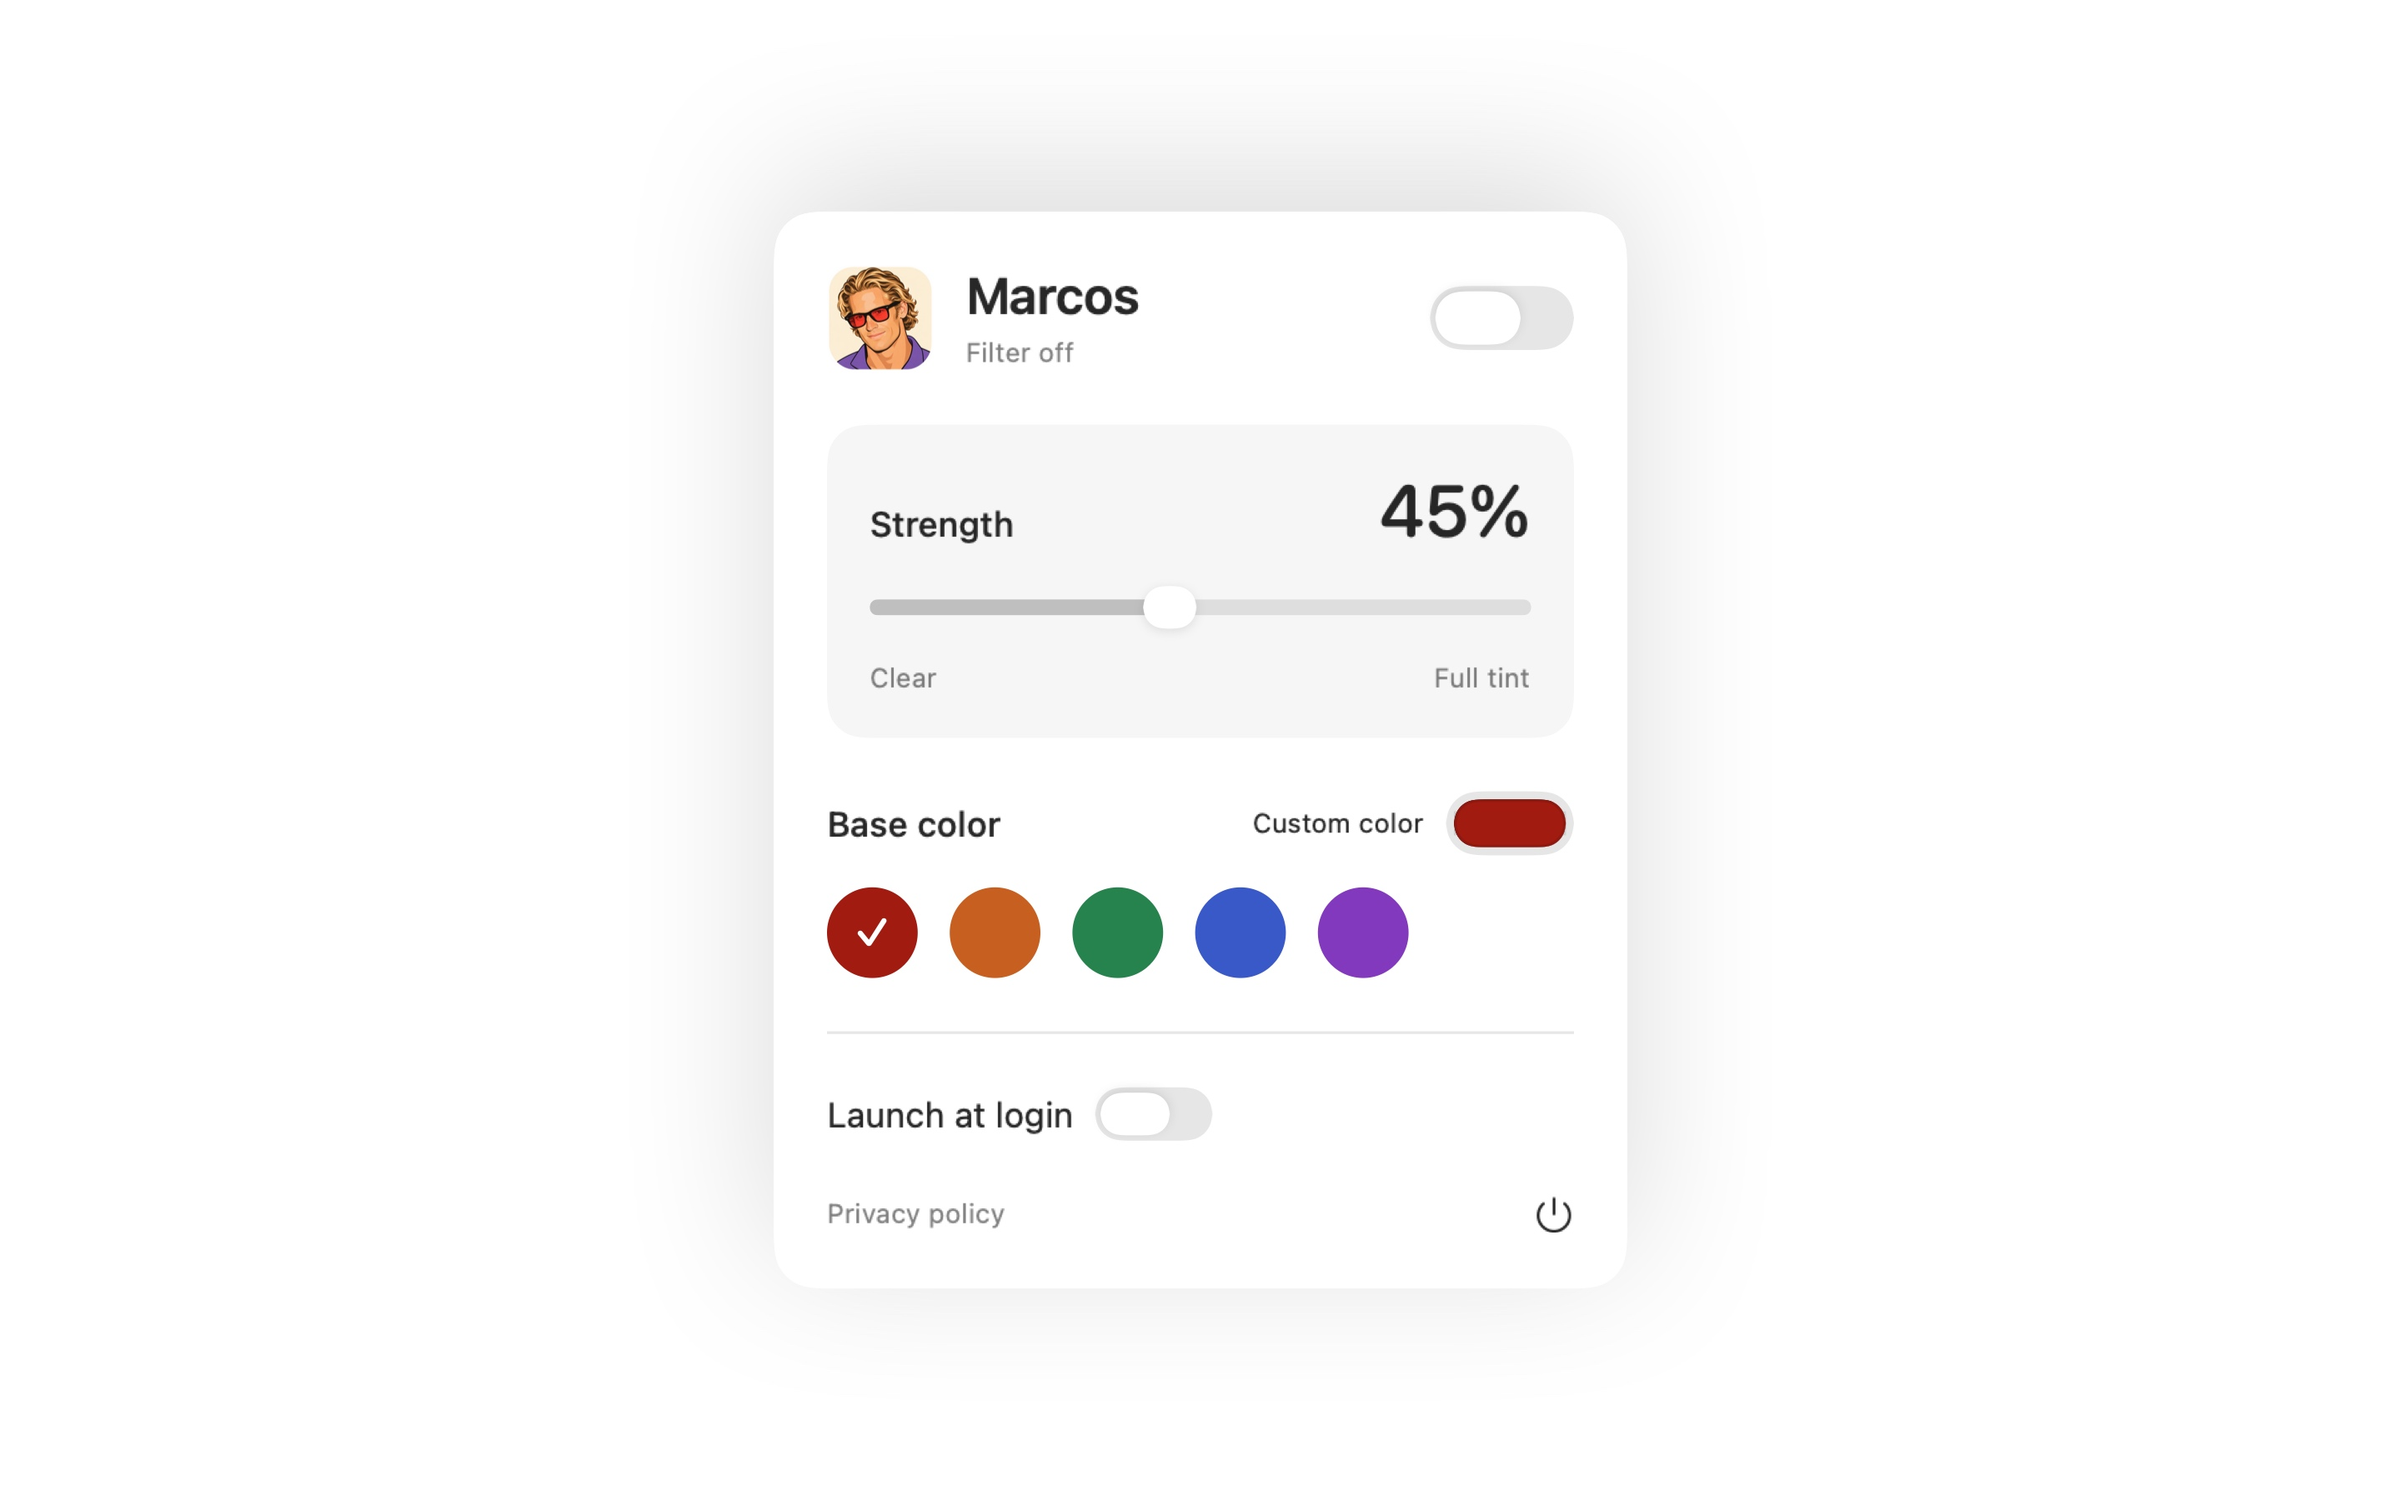
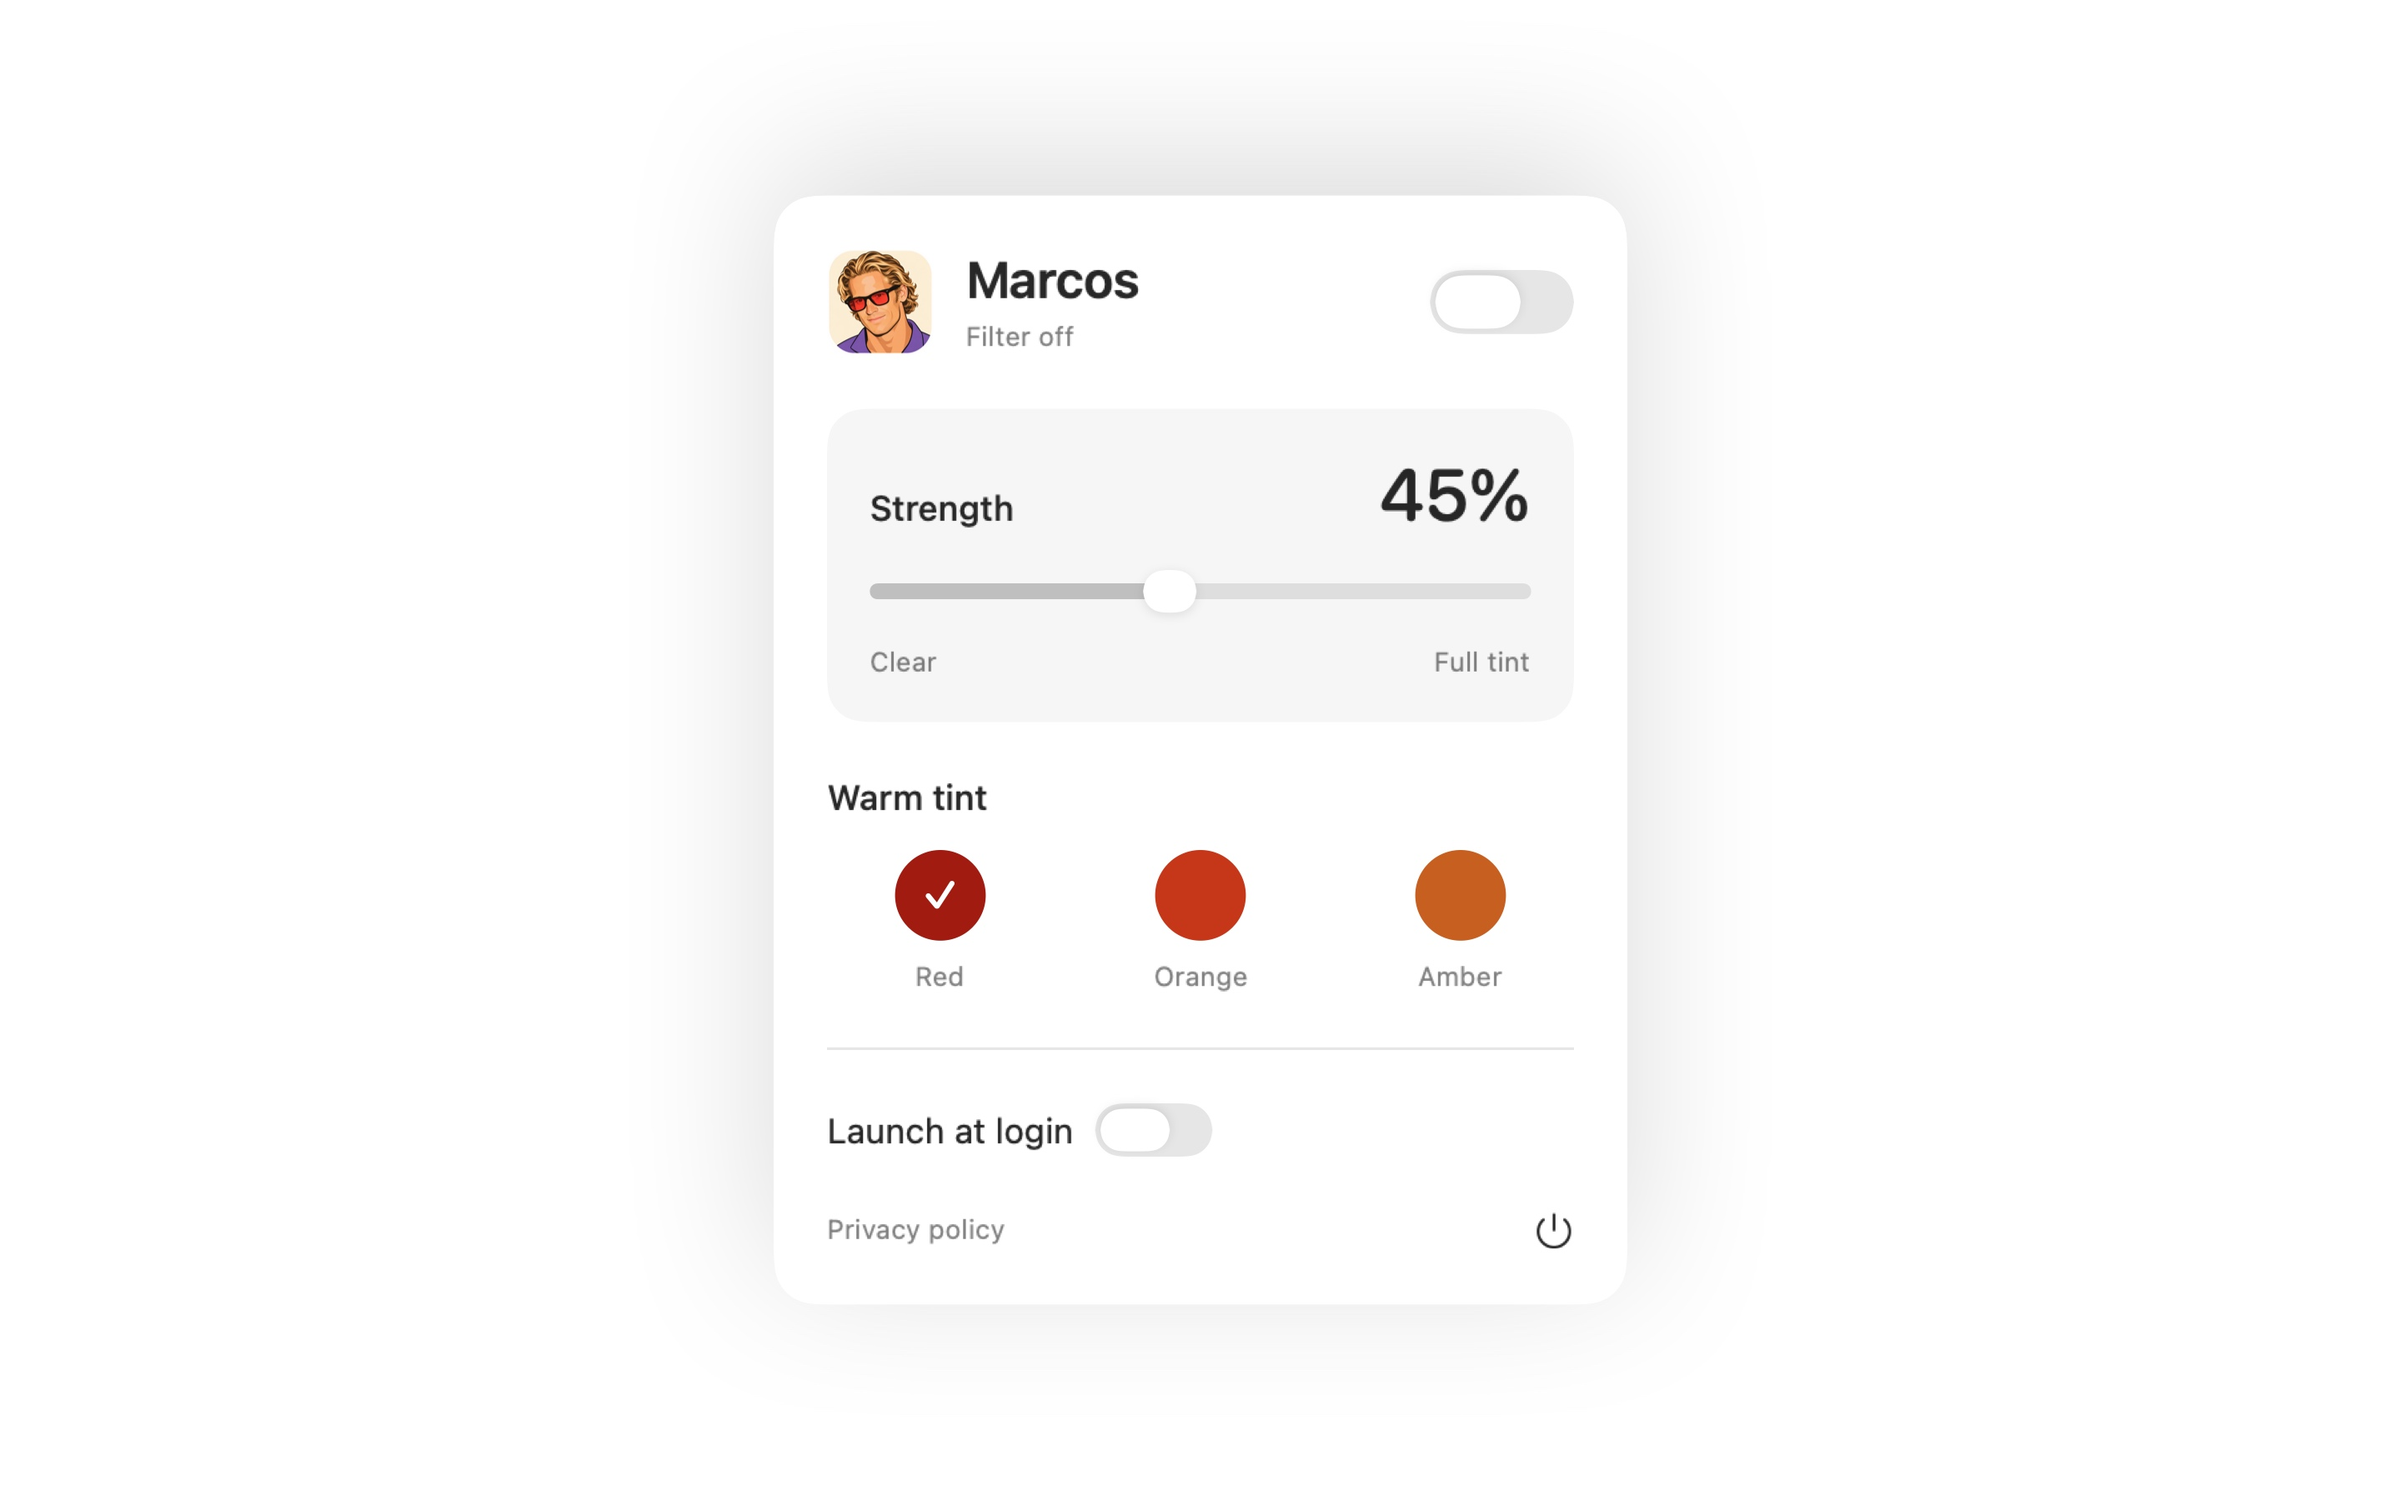
Restrict the picker to red, orange, and amber tints

diff --git a/StatusMenu.swift b/StatusMenu.swift
@@ -76,14 +76,6 @@ final class StatusMenu: NSObject {
 struct FilterControls: View {
     @ObservedObject var filter: FilterController
 
-    private let colors: [(name: String, color: NSColor)] = [
-        ("Red", .init(srgbRed: 0.65, green: 0, blue: 0, alpha: 1)),
-        ("Amber", .init(srgbRed: 0.8, green: 0.35, blue: 0.04, alpha: 1)),
-        ("Green", .init(srgbRed: 0.12, green: 0.52, blue: 0.3, alpha: 1)),
-        ("Blue", .init(srgbRed: 0.12, green: 0.36, blue: 0.8, alpha: 1)),
-        ("Violet", .init(srgbRed: 0.5, green: 0.22, blue: 0.75, alpha: 1)),
-    ]
-
     private var tint: Color { Color(nsColor: filter.baseColor) }
 
     var body: some View {
@@ -141,33 +133,31 @@ struct FilterControls: View {
             .background(.primary.opacity(0.04), in: RoundedRectangle(cornerRadius: 14))
 
             VStack(alignment: .leading, spacing: 12) {
-                HStack {
-                    Text("Base color")
-                        .font(.system(size: 13, weight: .medium))
-                    Spacer()
-                    ColorPicker("Custom color", selection: Binding(
-                        get: { tint },
-                        set: { filter.baseColor = NSColor($0) }
-                    ), supportsOpacity: false)
-                    .font(.caption)
-                }
+                Text("Warm tint")
+                    .font(.system(size: 13, weight: .medium))
 
                 HStack(spacing: 12) {
-                    ForEach(colors, id: \.name) { preset in
+                    ForEach(FilterController.colors, id: \.name) { preset in
                         let selected = filter.baseColor.usingColorSpace(.sRGB) == preset.color
                         Button {
                             filter.baseColor = preset.color
                         } label: {
-                            Circle()
-                                .fill(Color(nsColor: preset.color))
-                                .frame(width: 34, height: 34)
-                                .overlay {
-                                    if selected {
-                                        Image(systemName: "checkmark")
-                                            .font(.system(size: 12, weight: .bold))
-                                            .foregroundStyle(.white)
+                            VStack(spacing: 7) {
+                                Circle()
+                                    .fill(Color(nsColor: preset.color))
+                                    .frame(width: 34, height: 34)
+                                    .overlay {
+                                        if selected {
+                                            Image(systemName: "checkmark")
+                                                .font(.system(size: 12, weight: .bold))
+                                                .foregroundStyle(.white)
+                                        }
                                     }
-                                }
+                                Text(preset.name)
+                                    .font(.caption)
+                                    .foregroundStyle(.secondary)
+                            }
+                            .frame(maxWidth: .infinity)
                         }
                         .buttonStyle(.plain)
                         .accessibilityLabel(preset.name)

diff --git a/FilterController.swift b/FilterController.swift
@@ -5,6 +5,11 @@ import ServiceManagement
 @MainActor
 final class FilterController: NSObject, NSApplicationDelegate, ObservableObject {
     static let defaultColor = NSColor(srgbRed: 0.65, green: 0, blue: 0, alpha: 1)
+    static let colors: [(name: String, color: NSColor)] = [
+        ("Red", defaultColor),
+        ("Orange", .init(srgbRed: 0.8, green: 0.16, blue: 0, alpha: 1)),
+        ("Amber", .init(srgbRed: 0.8, green: 0.35, blue: 0.04, alpha: 1)),
+    ]
     private let defaults: UserDefaults
     private let logger = Logger(subsystem: "com.local.redfilter", category: "Login")
     private var overlays: [NSWindow] = []
@@ -56,7 +61,8 @@ final class FilterController: NSObject, NSApplicationDelegate, ObservableObject 
         enabled = defaults.bool(forKey: "filterEnabled") && savedStrength > 0
         if let rgb = defaults.array(forKey: "baseColor") as? [Double],
            rgb.count == 3, rgb.allSatisfy({ $0.isFinite && (0...1).contains($0) }) {
-            baseColor = NSColor(srgbRed: rgb[0], green: rgb[1], blue: rgb[2], alpha: 1)
+            let savedColor = NSColor(srgbRed: rgb[0], green: rgb[1], blue: rgb[2], alpha: 1)
+            baseColor = Self.colors.first(where: { $0.color == savedColor })?.color ?? Self.defaultColor
         } else {
             baseColor = Self.defaultColor
         }

diff --git a/FilterControllerTest.swift b/FilterControllerTest.swift
@@ -69,14 +69,17 @@ struct FilterControllerTest {
         precondition(visibleOverlays().count == screens.count)
         precondition(button.image?.isTemplate == false)
 
-        let blue = NSColor(srgbRed: 0.12, green: 0.36, blue: 0.8, alpha: 1)
-        filter.baseColor = blue
-        precondition(visibleOverlays().allSatisfy { $0.backgroundColor == blue })
-        let blueSettings = FilterController(defaults: defaults)
-        precondition(blueSettings.baseColor == blue)
+        let amber = NSColor(srgbRed: 0.8, green: 0.35, blue: 0.04, alpha: 1)
+        filter.baseColor = amber
+        precondition(visibleOverlays().allSatisfy { $0.backgroundColor == amber })
+        let amberSettings = FilterController(defaults: defaults)
+        precondition(amberSettings.baseColor == amber)
         filter.enabled = false
         precondition(visibleOverlays().isEmpty)
         precondition(button.image?.isTemplate == true)
+        defaults.set([0.12, 0.36, 0.8], forKey: "baseColor")
+        let oldBlueSettings = FilterController(defaults: defaults)
+        precondition(oldBlueSettings.baseColor == FilterController.defaultColor)
         defaults.set([0.2, 0.3], forKey: "baseColor")
         defaults.set(0, forKey: "filterStrength")
         defaults.set(true, forKey: "filterEnabled")

diff --git a/AppStore/Submission.md b/AppStore/Submission.md
@@ -2,7 +2,7 @@
 
 ## Release build
 
-Version 1.2.1, build 4. The release target uses bundle identifier `com.perezpaya.marcos`, App Sandbox, and hardened runtime. It builds for Apple silicon and Intel Macs running macOS 13 or later.
+Version 1.2.2, build 5. The release target uses bundle identifier `com.perezpaya.marcos`, App Sandbox, and hardened runtime. It builds for Apple silicon and Intel Macs running macOS 13 or later.
 
 Open `Marcos.xcodeproj`, select the Marcos target, and choose the publishing Apple Developer team in Signing & Capabilities. The checked-in project is ready to open in Xcode. `project.yml` is its XcodeGen source.
 
@@ -24,7 +24,7 @@ An unsigned archive has been built locally. Distribution signing, an App Store p
 
 Give your displays a color tint from the menu bar.
 
-Click the glasses to turn the tint on or off. Right-click to choose a base color and adjust its strength. Use one of five presets or choose a custom color.
+Click the glasses to turn the tint on or off. Right-click to choose a red, orange, or amber tint and adjust its strength.
 
 Marcos applies the tint across your connected displays and remembers your settings. Sliding to 0% turns the tint off. Your next toggle restores the previous strength. Enable Launch at login to keep Marcos ready when you sign in.
 

diff --git a/README.md b/README.md
@@ -6,7 +6,7 @@ A small native macOS menu bar app that adds an adjustable color tint to your scr
 
 - Left-click the glasses in the menu bar to toggle the filter.
 - Right-click or Control-click to open options, adjust strength and base color, or quit.
-- Choose red, amber, green, blue, violet, or a custom color.
+- Choose a red, orange, or amber tint.
 - The menu bar glasses match the active tint. Clear glasses indicate the tint is off.
 - Sliding to 0% turns the filter off. The next toggle restores your last nonzero strength.
 - Moving the slider above 0% applies the tint, including while the filter is off.
